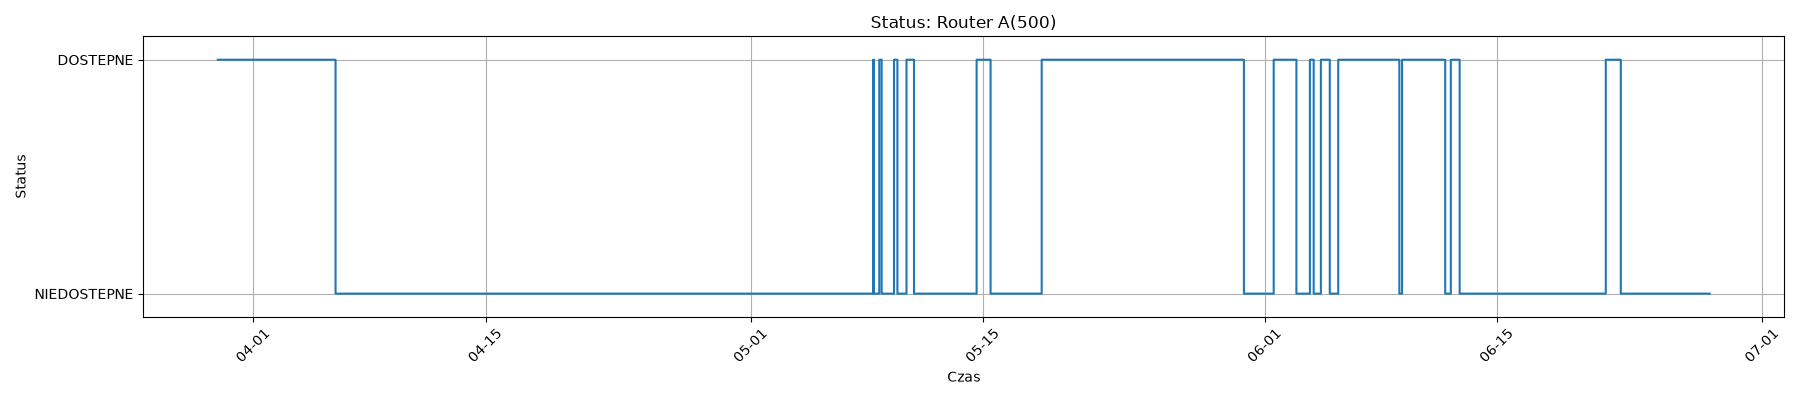
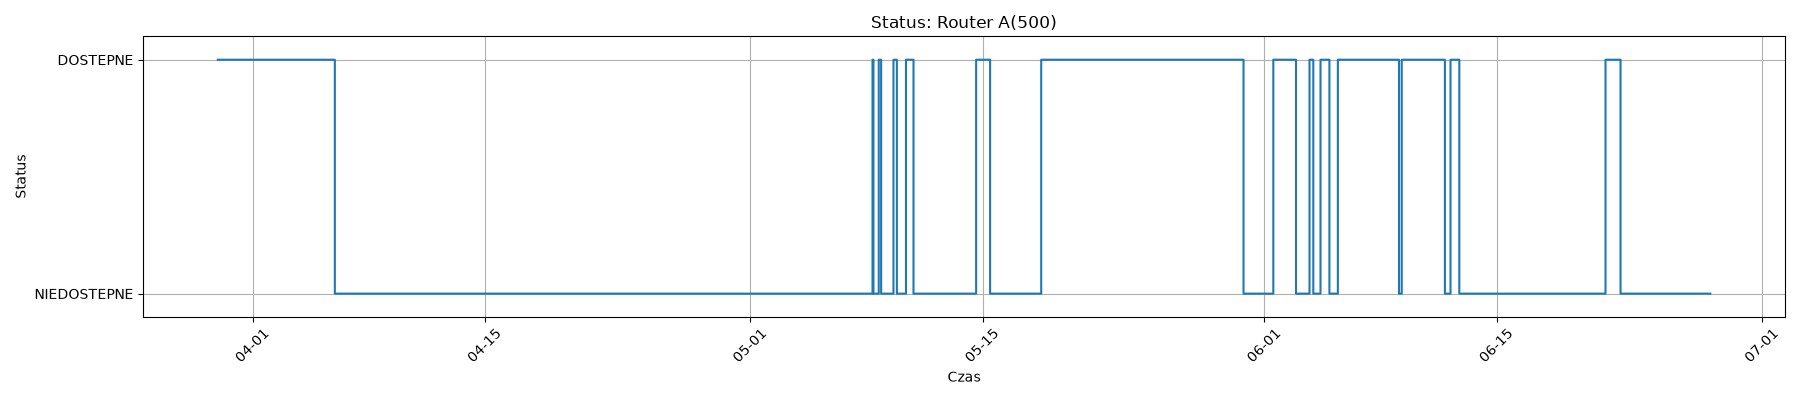
Automatyczna aktualizacja monitoringu

diff --git a/index.html b/index.html
@@ -33,5 +33,5 @@ img { border: 1px solid #ccc; border-radius: 8px; }
                 <div>Router B(300)</div>
                 <img src="chart_Router B(300).png" alt="Router B(300)" style="max-width:600px; margin-top:10px;">
             </div>
-            <p>Ostatnia zmiana: 2026-06-27 19:57:46</p>
+            <p>Ostatnia zmiana: 2026-06-27 21:11:24</p>
 </body></html>